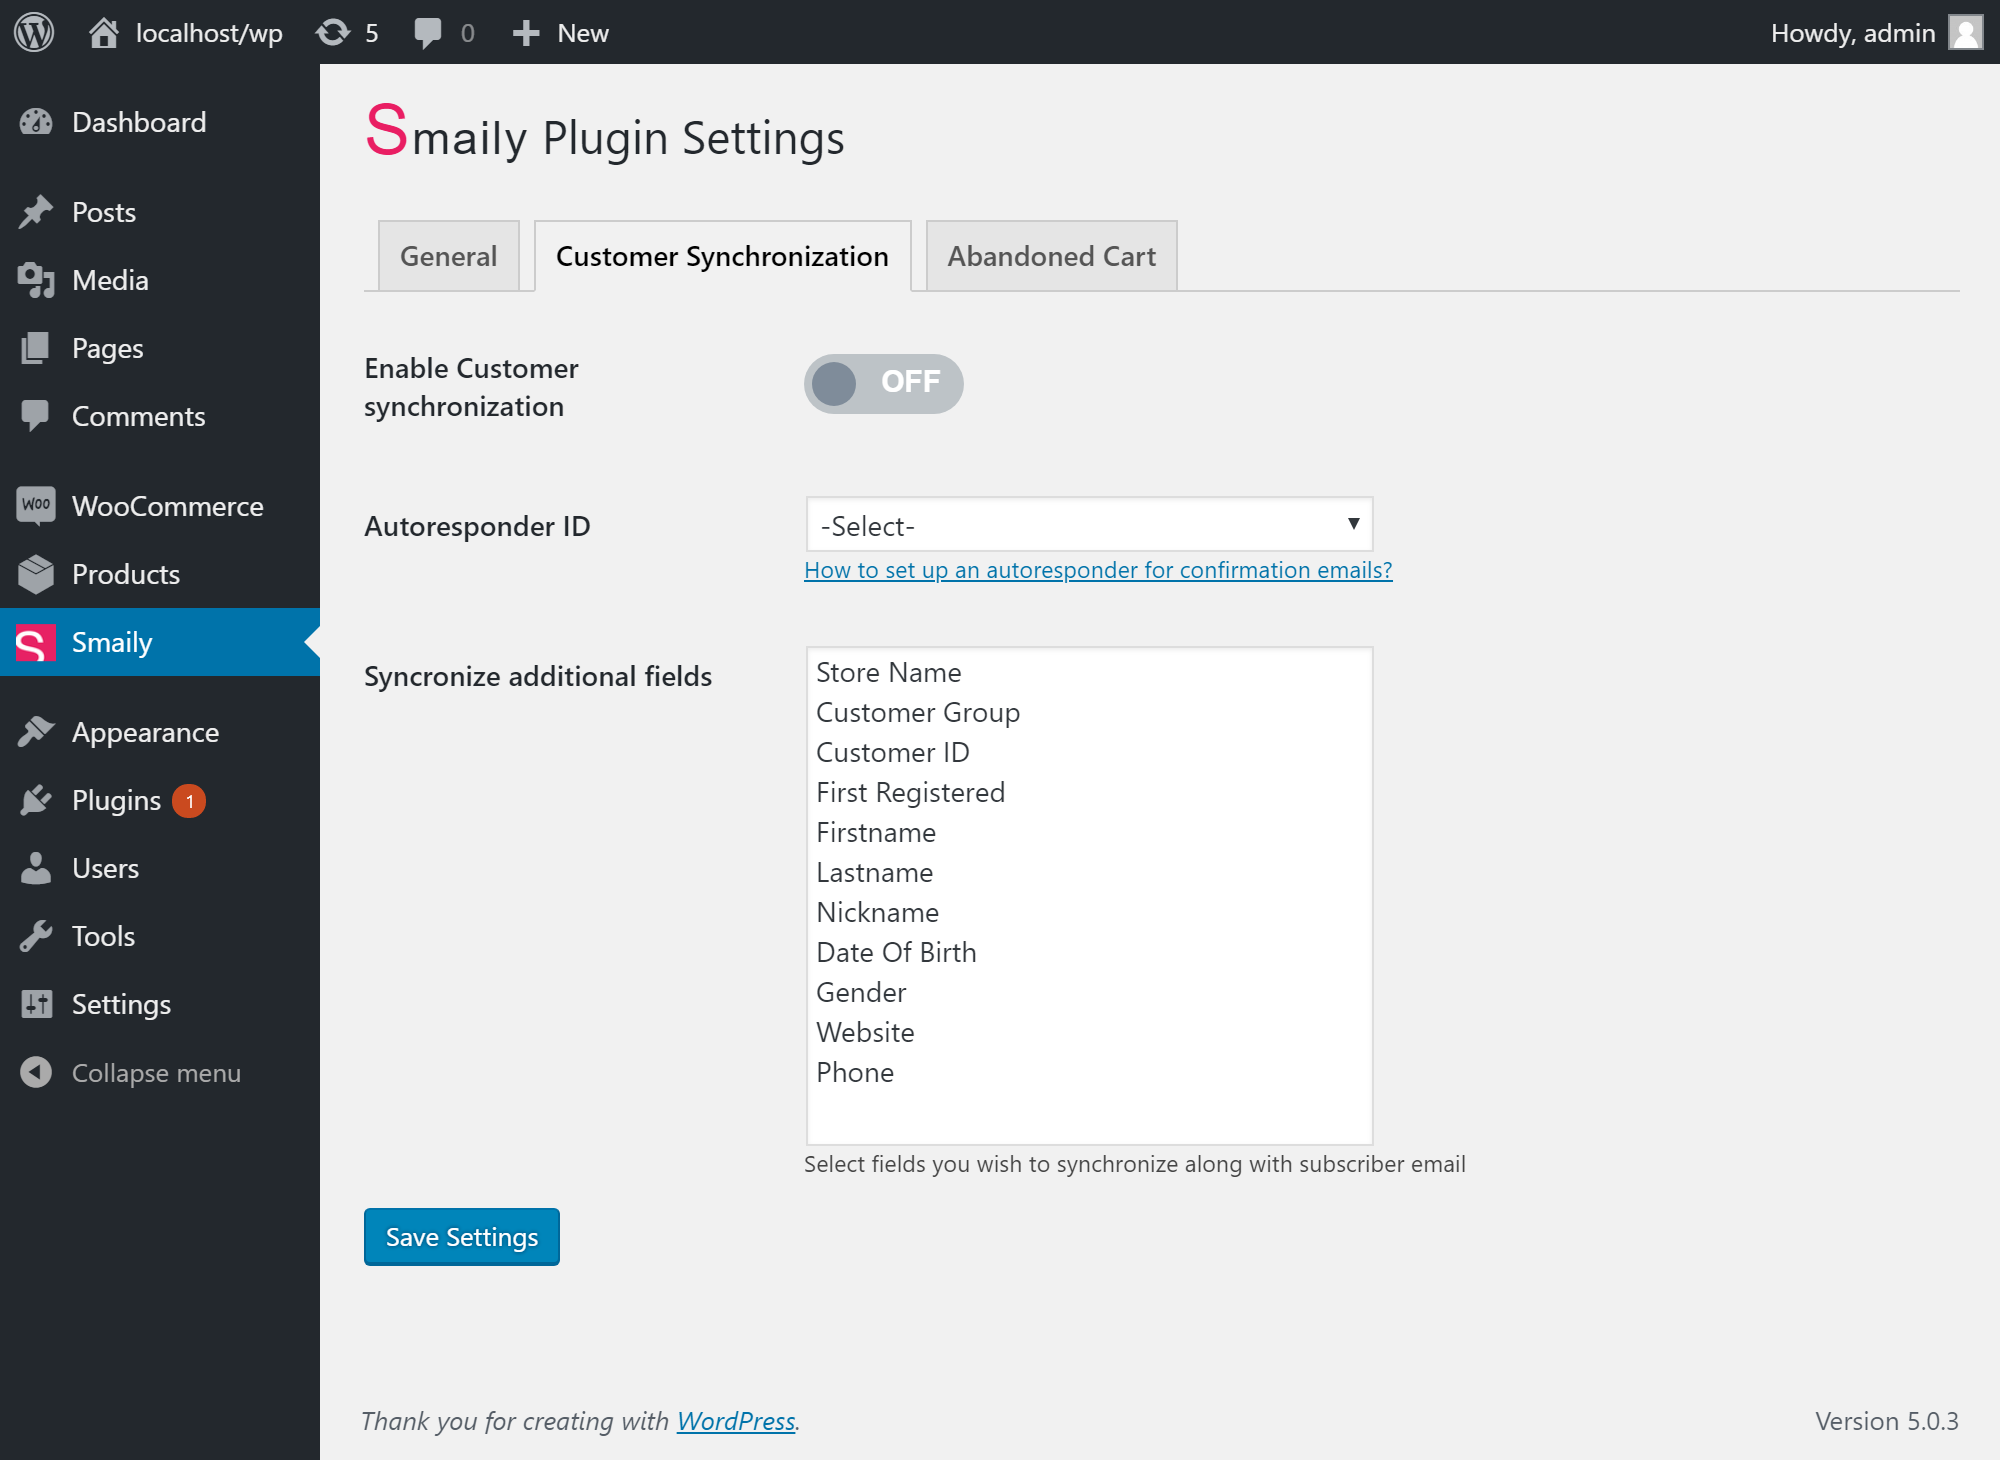
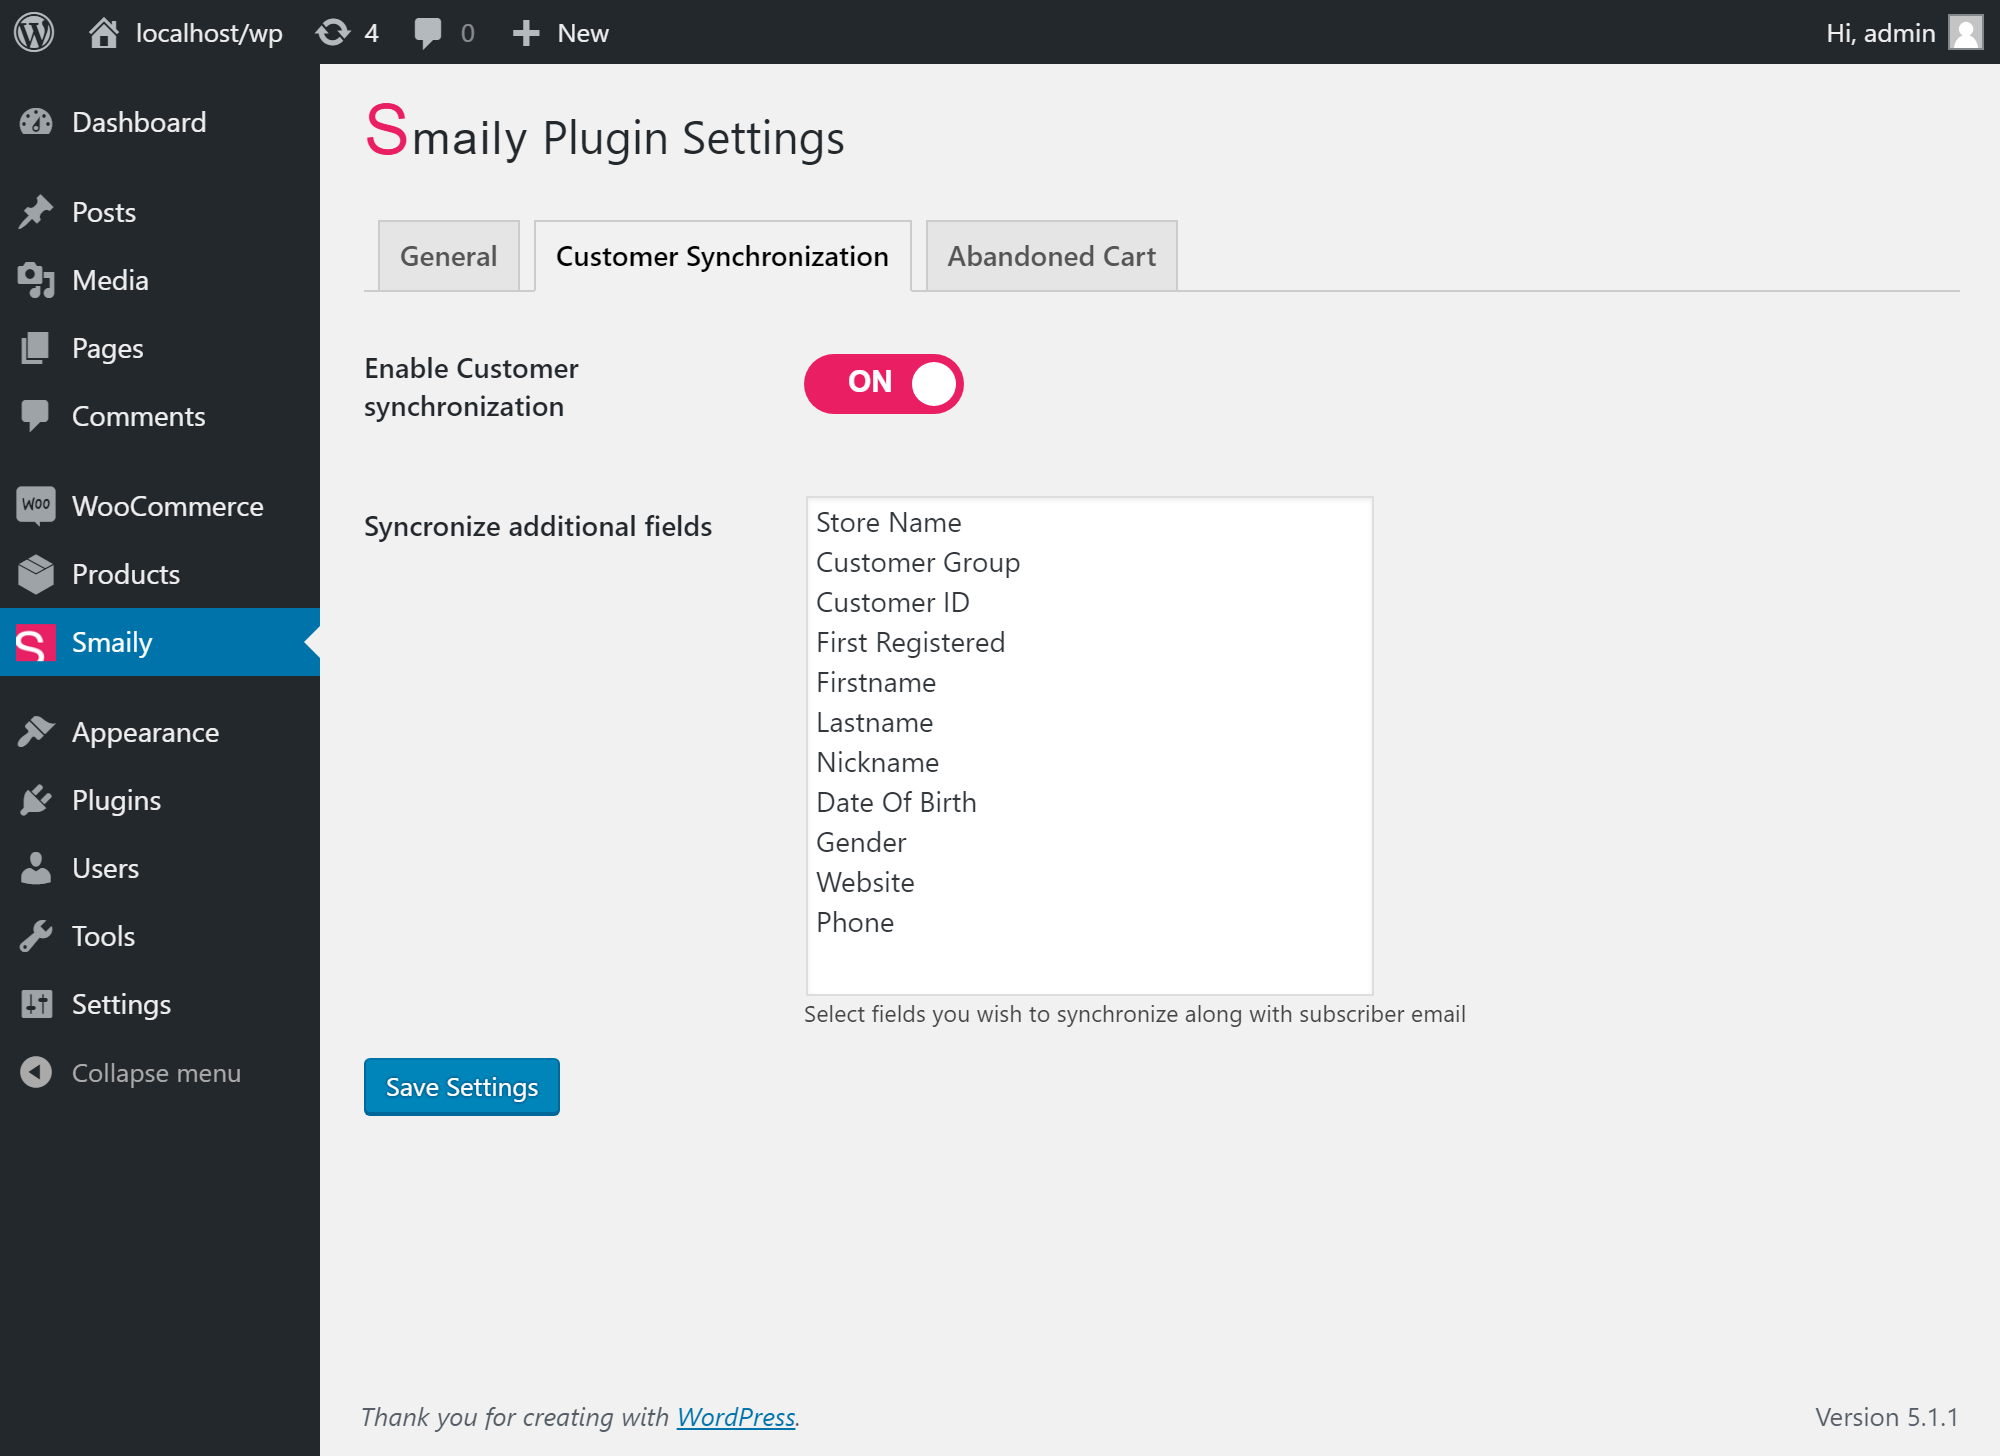
Updated screeshots. Code standart improvement. Removed autoresponder query from admin page.

diff --git a/inc/Widget/SmailyWidget.php b/inc/Widget/SmailyWidget.php
@@ -54,11 +54,11 @@ class SmailyWidget extends \WP_Widget {
 		if ( isset( $result ) ) {
 			$result = $result['result'];
 		}
-		
+
 		// Get autoresponder id from instance if saved.
 		$autoresponder_id = '';
 		if ( isset( $instance['autoresponder'] ) && ! empty( $instance['autoresponder'] ) ) {
-			$autoresponder = json_decode( $instance['autoresponder'], true);
+			$autoresponder    = json_decode( $instance['autoresponder'], true );
 			$autoresponder_id = $autoresponder['id'];
 		}
 
@@ -69,7 +69,7 @@ class SmailyWidget extends \WP_Widget {
 		$lang = '';
 		if ( defined( 'ICL_LANGUAGE_CODE' ) ) {
 			$lang = ICL_LANGUAGE_CODE;
-		// Language code if using polylang.
+			// Language code if using polylang.
 		} elseif ( function_exists( 'pll_current_language' ) ) {
 			$lang = pll_current_language();
 		} else {
@@ -102,7 +102,7 @@ class SmailyWidget extends \WP_Widget {
 		';
 		// Optional autoresponder when selected.
 		echo $autoresponder_id ? '<input type="hidden" name="autoresponder" value="' . esc_html( $autoresponder_id ) . '" />' : '';
-		echo  '</div>
+		echo '</div>
 				<p>
 					<label>Email</label>
 					<input type="text" name="email" value="" />
@@ -189,7 +189,7 @@ class SmailyWidget extends \WP_Widget {
 	public function update( $new_instance, $old_instance ) {
 		$instance = array();
 
-		$instance['title']   = ( ! empty( $new_instance['title'] ) ) ? sanitize_text_field( $new_instance['title'] ) : '';
+		$instance['title']         = ( ! empty( $new_instance['title'] ) ) ? sanitize_text_field( $new_instance['title'] ) : '';
 		$instance['autoresponder'] = ( ! empty( $new_instance['autoresponder'] ) ) ? sanitize_text_field( $new_instance['autoresponder'] ) : '';
 
 		return $instance;

diff --git a/inc/Base/Cron.php b/inc/Base/Cron.php
@@ -22,10 +22,11 @@ class Cron {
 		add_filter( 'cron_schedules', array( $this, 'smaily_cron_schedules' ) );
 		// Action hook for contact syncronization.
 		add_action( 'smaily_cron_sync_contacts', array( $this, 'smaily_sync_contacts' ) );
-		// Cron for sending abandoned cart emails.
-		add_action( 'smaily_cron_abandoned_carts_email', array( $this, 'smaily_abandoned_carts_email' ) );
 		// Cron for updating abandoned cart statuses.
 		add_action( 'smaily_cron_abandoned_carts_status', array( $this, 'smaily_abandoned_carts_status' ) );
+		// Cron for sending abandoned cart emails.
+		add_action( 'smaily_cron_abandoned_carts_email', array( $this, 'smaily_abandoned_carts_email' ) );
+
 	}
 
 	/**

diff --git a/inc/Pages/ProfileSettings.php b/inc/Pages/ProfileSettings.php
@@ -19,10 +19,10 @@ class ProfileSettings {
 	 */
 	public function register() {
 
-		// Show additional profile fields only if plugin is activated.
+		// Show additional profile fields only if credentials are validated.
 		$result = DataHandler::get_smaily_results();
 
-		if ( isset( $result['result']['autoresponder'] ) ) {
+		if ( isset( $result['result']['subdomain'] ) ) {
 			// Add fields to registration form and account area.
 			add_action( 'woocommerce_register_form', array( $this, 'smaily_print_user_frontend_fields' ), 10 );
 			add_action( 'woocommerce_edit_account_form', array( $this, 'smaily_print_user_frontend_fields' ), 10 );

diff --git a/templates/smaily-woocommerce-admin.php b/templates/smaily-woocommerce-admin.php
@@ -10,8 +10,6 @@ if ( isset( $settings ) ) {
 	$result                  = $settings['result'];
 	$is_enabled              = $result['enable'];
 	$cart_enabled            = $result['enable_cart'];
-	$autoresponder_name      = $result['autoresponder'];
-	$autoresponder_id        = $result['autoresponder_id'];
 	$cart_autoresponder_name = $result['cart_autoresponder'];
 	$cart_autoresponder_id   = $result['cart_autoresponder_id'];
 }
